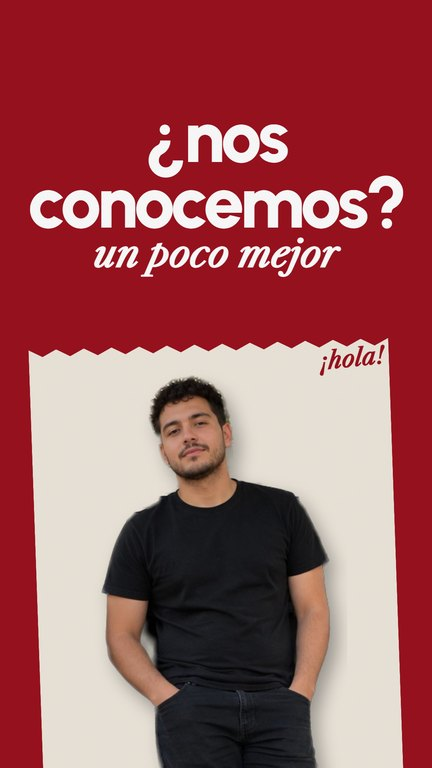
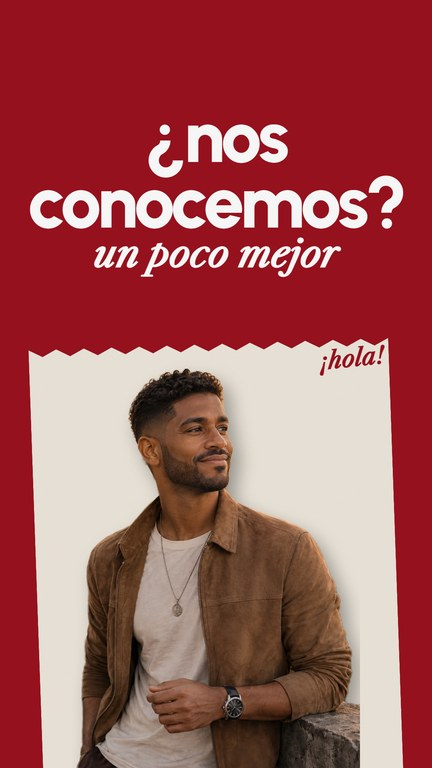
Historias: portadas nuevas de «¿Nos conocemos?» y «Letra gigante» con las fotos de dirección editorial

Changed region(s): [[0.1806, 0.4688, 0.8426, 1.0]]

diff --git a/herramientas/carruseles/app.js b/herramientas/carruseles/app.js
@@ -533,7 +533,7 @@
     $(sel + ' [data-cambiar-estilo]').onclick = function () { E.volverDeEstilos = E.vista; ir('estilos'); };
   }
   // la tapa de un estilo: su portada de muestra (imagen del catálogo aprobado)
-  function tapaFamilia(el, id, ancho) { el.innerHTML = '<img src="carruseles/tapas/' + id + '.jpg?v=20261028f" alt="" style="width:100%;height:100%;object-fit:cover;display:block" onerror="this.style.display=\'none\'">'; }
+  function tapaFamilia(el, id, ancho) { el.innerHTML = '<img src="carruseles/tapas/' + id + '.jpg?v=20261029h" alt="" style="width:100%;height:100%;object-fit:cover;display:block" onerror="this.style.display=\'none\'">'; }
   function resumen() {
     var C = E.crear, f = F.de(C.familia), vid = C.modo === 'video';
     var t = (C.texto || '').trim();
@@ -645,7 +645,7 @@
       $('#detalle-estilo').innerHTML = ''; return;
     }
     $('#rejilla-estilos').innerHTML = catalogo().map(function (f) {
-      return '<button type="button" class="fam-t ' + (pasa(f) ? '' : 'apagada') + (f.lista ? '' : ' pronto') + '" data-fam="' + f.id + '" aria-pressed="' + (f.id === E.crear.familia) + '"><img src="carruseles/tapas/' + f.id + '.jpg?v=20261028f" alt="" loading="lazy"><span class="insignias">' + (f.anim ? '<span class="ins anim">▶ VIDEO</span>' : '') + (f.ia ? '<span class="ins ia">IA</span>' : '') + (f.lista ? '' : '<span class="ins pronto">PRONTO</span>') + '</span><b>' + esc(f.nombre) + '</b></button>';
+      return '<button type="button" class="fam-t ' + (pasa(f) ? '' : 'apagada') + (f.lista ? '' : ' pronto') + '" data-fam="' + f.id + '" aria-pressed="' + (f.id === E.crear.familia) + '"><img src="carruseles/tapas/' + f.id + '.jpg?v=20261029h" alt="" loading="lazy"><span class="insignias">' + (f.anim ? '<span class="ins anim">▶ VIDEO</span>' : '') + (f.ia ? '<span class="ins ia">IA</span>' : '') + (f.lista ? '' : '<span class="ins pronto">PRONTO</span>') + '</span><b>' + esc(f.nombre) + '</b></button>';
     }).join('');
     $$('[data-fam]').forEach(function (b) { b.onclick = function () { verEstilo(b.dataset.fam); }; });
     verEstilo(E.estiloVisto || E.crear.familia);
@@ -654,7 +654,7 @@
     E.estiloVisto = id;
     $$('[data-fam]').forEach(function (x) { x.setAttribute('aria-pressed', x.dataset.fam === id); });
     var f = F.de(id), av = null;   // (28-oct) sin avisos de «no sirve»: todas sirven
-    $('#detalle-estilo').innerHTML = '<img src="carruseles/tapas/' + f.id + '.jpg?v=20261028f" alt="" style="width:100%;border-radius:12px">' +
+    $('#detalle-estilo').innerHTML = '<img src="carruseles/tapas/' + f.id + '.jpg?v=20261029h" alt="" style="width:100%;border-radius:12px">' +
       '<h3>' + esc(f.nombre) + '</h3>' +
       (av ? '<div class="aviso ambar"><div><b>Está pensada para ' + f.ideal.map(function (x) { return F.NOMOBJ[x]; }).join(' y ') + '.</b> Para ' + F.NOMOBJ[E.crear.obj] + ' te van mejor: ' + av.mejores.map(function (m) { return esc(m.nombre); }).join(', ') + '.</div></div>' : '') +
       '<div class="lista-def"><div><span>Ideal para</span><span>' + f.ideal.map(function (x) { return F.NOMOBJ[x]; }).join(', ') + (f.sirve && f.sirve.length ? ' · también ' + f.sirve.map(function (x) { return F.NOMOBJ[x]; }).join(', ') : '') + '</span></div>' +
@@ -1122,7 +1122,7 @@
 
   function pintarDiseno(P) {
     var c = car(), f = F.de(c.familia);
-    P.innerHTML = '<div class="grupo"><div class="etiqueta">Estilo</div><div class="estilo-mini"><img src="carruseles/tapas/' + f.id + '.jpg?v=20261028f" alt=""><div><b>' + esc(f.nombre) + '</b><div class="pista">Cambias de estilo y tu texto se conserva.</div></div><button type="button" class="btn btn-linea btn-chico" id="d-estilo" style="margin-left:auto">Cambiar</button></div></div>' +
+    P.innerHTML = '<div class="grupo"><div class="etiqueta">Estilo</div><div class="estilo-mini"><img src="carruseles/tapas/' + f.id + '.jpg?v=20261029h" alt=""><div><b>' + esc(f.nombre) + '</b><div class="pista">Cambias de estilo y tu texto se conserva.</div></div><button type="button" class="btn btn-linea btn-chico" id="d-estilo" style="margin-left:auto">Cambiar</button></div></div>' +
       opcionesDe(f, c) + temasDe(f, c) +
       (FMT.hist ? '' : '<div class="grupo"><div class="etiqueta">Tamaño</div><div class="fila"><button type="button" class="chip" data-alto="1440" aria-pressed="' + (c.alto === 1440) + '">3:4 · 1080×1440</button><button type="button" class="chip" data-alto="1350" aria-pressed="' + (c.alto === 1350) + '">4:5 · 1080×1350</button></div><p class="pista">Instagram muestra hasta 3:4 en el perfil nuevo; 4:5 es el de siempre.</p></div>' ) +
       '<div class="grupo"><div class="etiqueta">Esta lámina</div><div class="fila"><button type="button" class="btn btn-linea btn-chico" id="d-rearmar">Volver a armarla como estaba</button><button type="button" class="btn btn-linea btn-chico" id="d-duplicar">Duplicarla</button><button type="button" class="btn btn-linea btn-chico" id="d-quitar" style="color:var(--rojo)">Quitarla</button></div></div>' +

diff --git a/herramientas/carruseles/historias-ui.js b/herramientas/carruseles/historias-ui.js
@@ -56,7 +56,7 @@
     $('#hs-plant-n').textContent = fs.length + ' · cada una es una secuencia';
     var PARA = { h_conocemos: 'Presentarte', h_foto: 'Enseñar en pasos', h_gigante: 'Una idea fuerte', h_palabra: 'Preguntas y respuestas' };
     fila.innerHTML = fs.map(function (f) {
-      return '<button type="button" class="hs-tp" data-hs-fam="' + f.id + '"><img src="carruseles/tapas/' + f.id + '.jpg" alt="" loading="lazy"><b>' + esc(f.nombre) + '</b><small>' + esc(PARA[f.id] || '') + '</small></button>';
+      return '<button type="button" class="hs-tp" data-hs-fam="' + f.id + '"><img src="carruseles/tapas/' + f.id + '.jpg?v=20261029h" alt="" loading="lazy"><b>' + esc(f.nombre) + '</b><small>' + esc(PARA[f.id] || '') + '</small></button>';
     }).join('') + '<span class="hs-mano">vienen más →</span>';
     $$('[data-hs-fam]', fila).forEach(function (b) {
       b.onclick = function () { var a = API(); if (!a) return; a.E.crear.familia = b.dataset.hsFam; if (a.E.crear.modo === 'video') a.E.crear.modo = 'idea'; a.ir('empezar'); };

diff --git a/herramientas/carruseles.html b/herramientas/carruseles.html
@@ -250,7 +250,7 @@
 <script src="carruseles/familias/revista3.js?v=20261028firma"></script>
 <script src="carruseles/familias/abanico.js?v=20260930g"></script>
 <script src="carruseles/familias/historias.js?v=20261008his"></script>
-<script src="carruseles/historias-ui.js?v=20261009hs9"></script>
-<script src="carruseles/app.js?v=20261029lado"></script>
+<script src="carruseles/historias-ui.js?v=20261029h"></script>
+<script src="carruseles/app.js?v=20261029h"></script>
 </body>
 </html>
